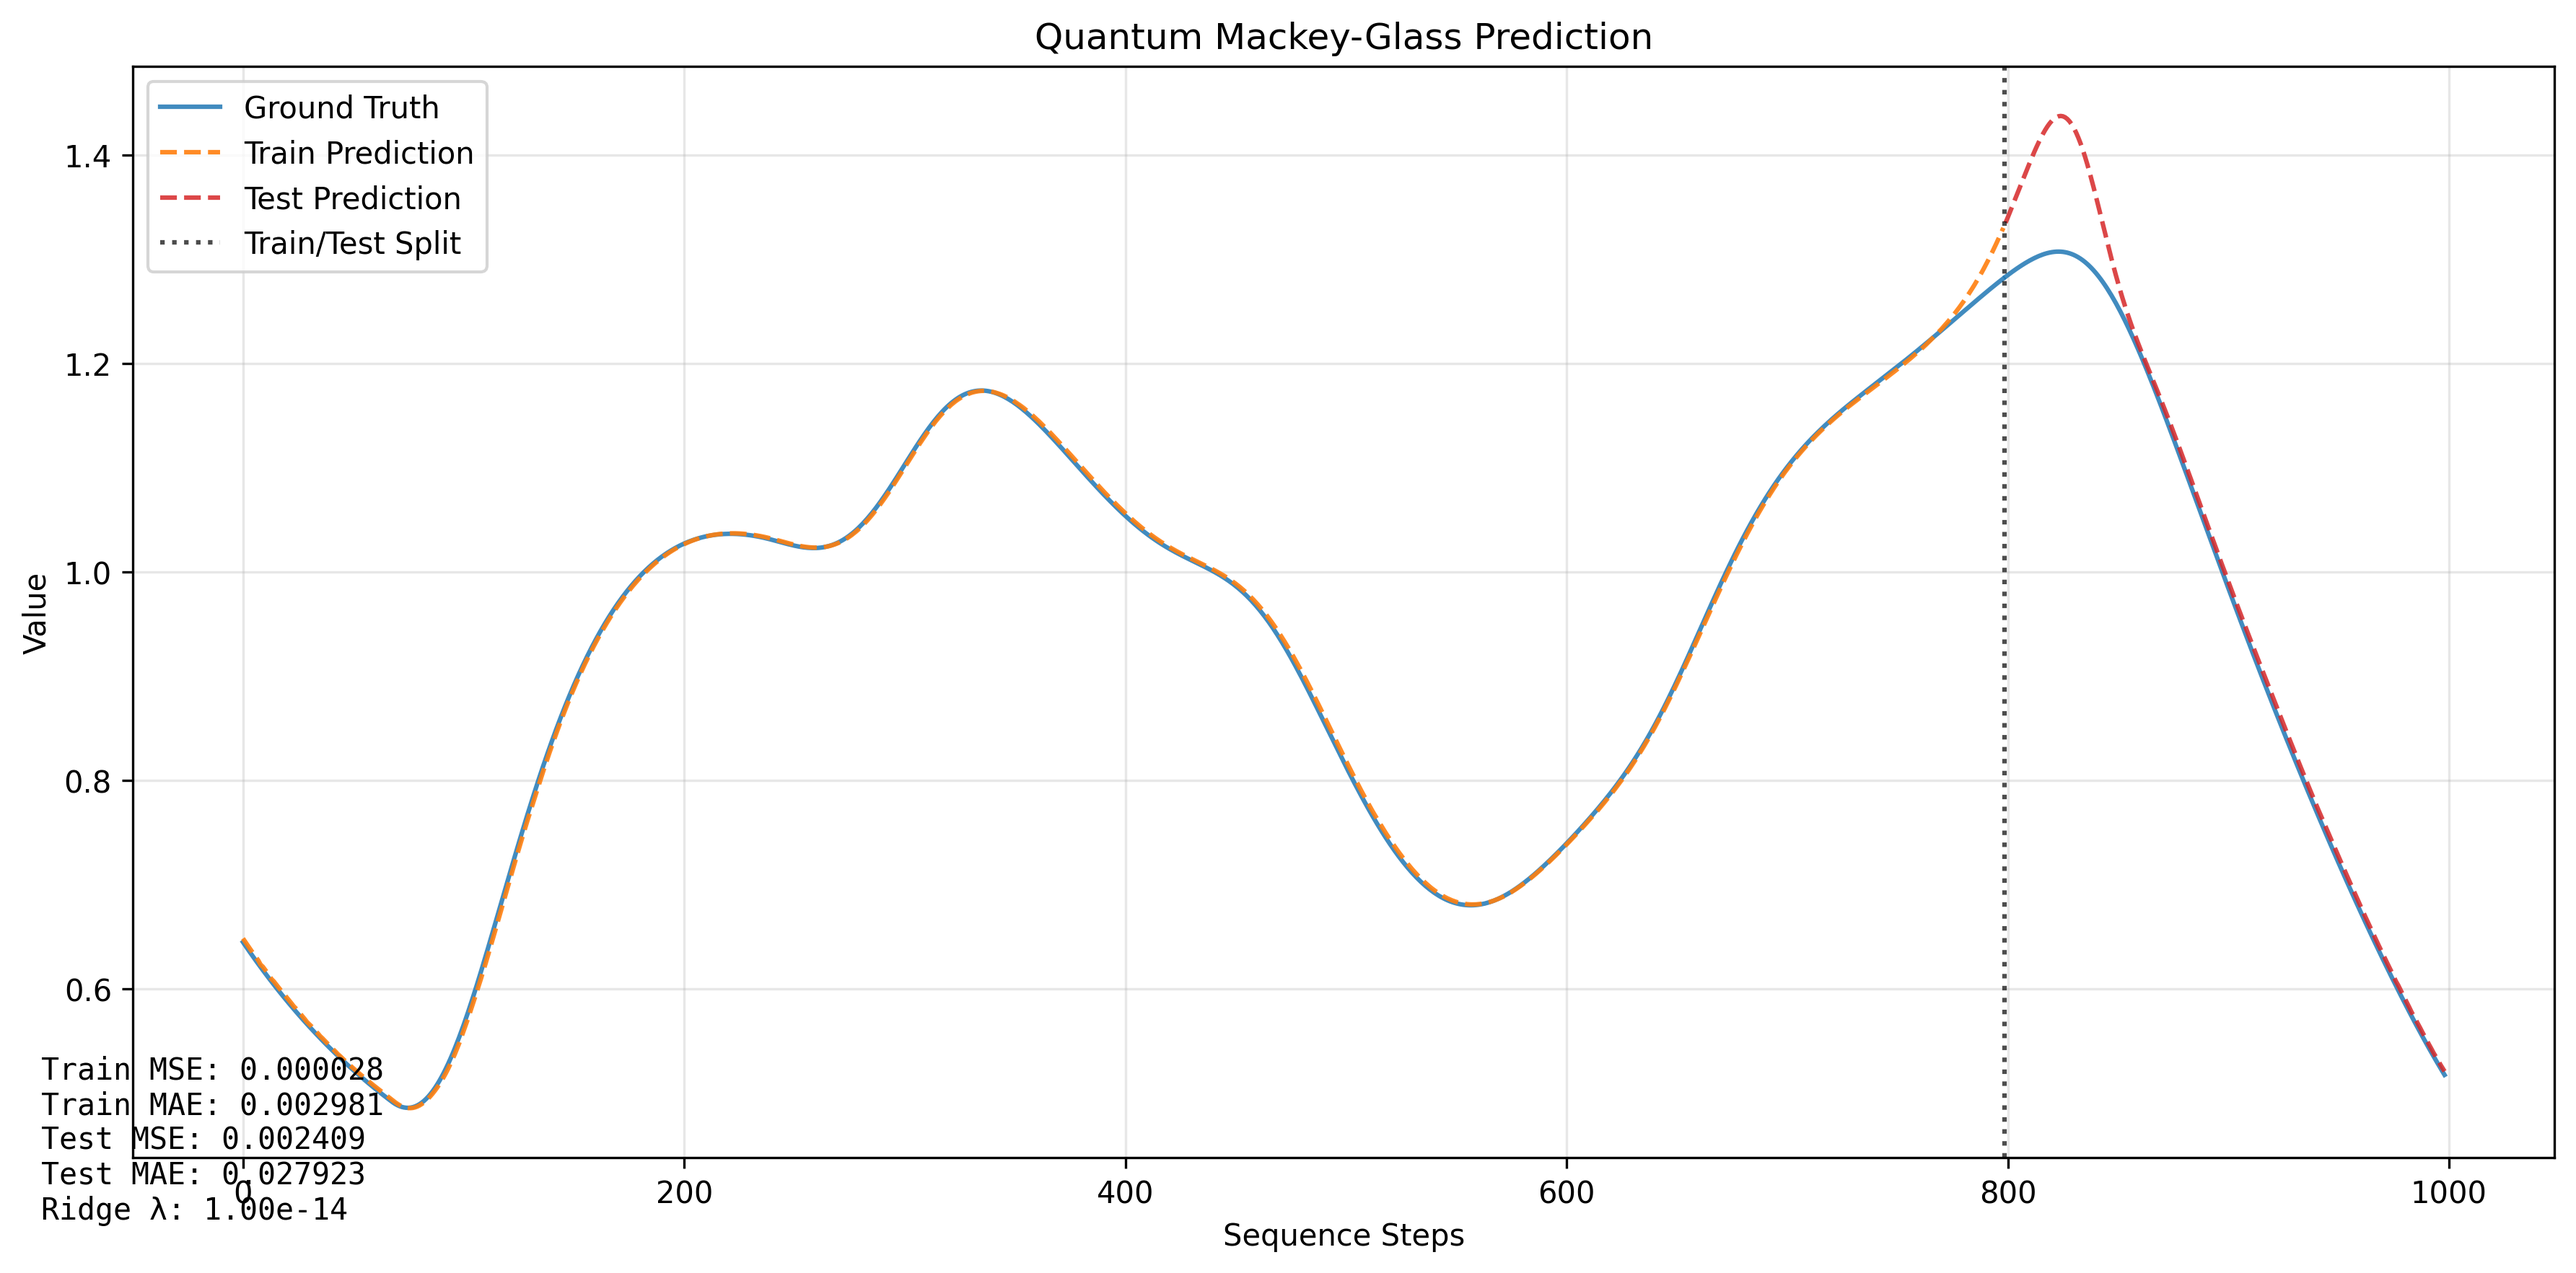
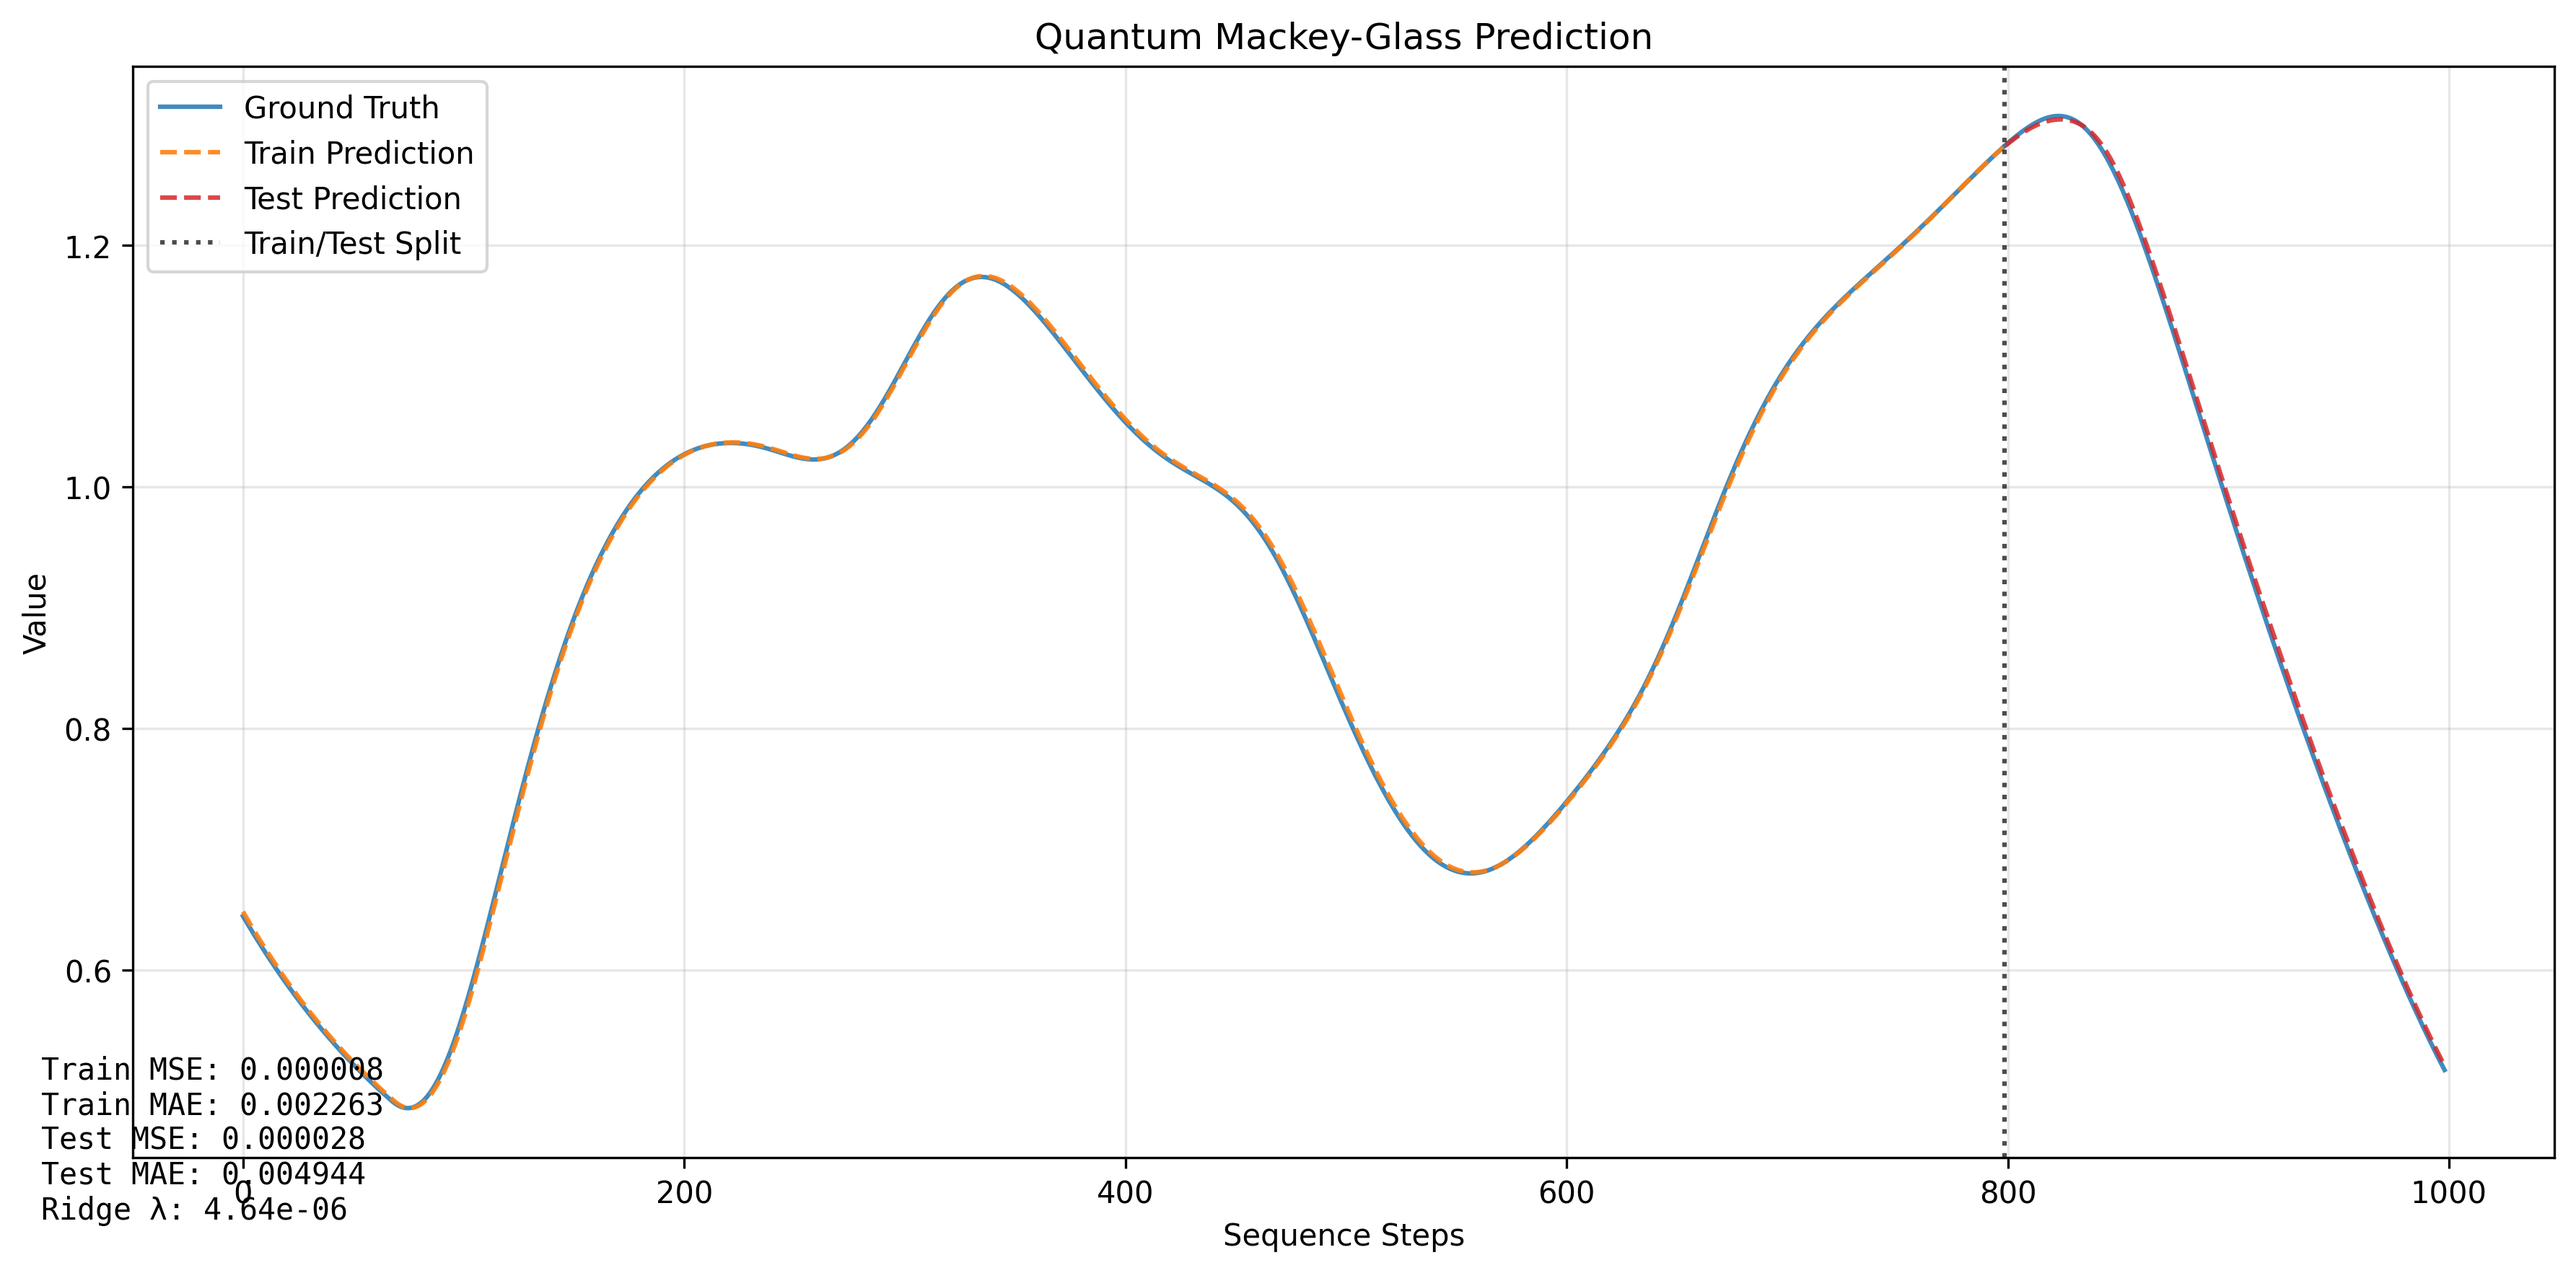
fixed aq

diff --git a/models/reservoir/analog_quantum.py b/models/reservoir/analog_quantum.py
@@ -606,7 +606,8 @@ class AnalogQuantumReservoir(BaseReservoirComputer):
                 self.ridge_search_log.append({"lambda": lam, "train_accuracy": train_accuracy, "val_accuracy": val_accuracy})
             else:
                 train_mse = float(np.mean((y_train - preds_tr) ** 2))
-                val_mse = float(np.mean((y_val if X_val.size > 0 else y_train - preds_val) ** 2))
+                y_ref = y_val if X_val.size > 0 else y_train
+                val_mse = float(np.mean((y_ref - preds_val) ** 2))
 
                 train_metric_list.append(train_mse)
                 val_metric_list.append(val_mse)
@@ -629,8 +630,7 @@ class AnalogQuantumReservoir(BaseReservoirComputer):
         best_weights = weights_by_lambda[best_lambda]
         self.best_ridge_lambda = best_lambda
 
-        return best_weights
-
+        return best_weights, best_lambda
     # ------------------------------------------------------------------ #
     # Training / prediction (regression)                                #
     # ------------------------------------------------------------------ #
@@ -654,9 +654,22 @@ class AnalogQuantumReservoir(BaseReservoirComputer):
         design_matrix = self._prepare_design_matrix(features, fit=True)
 
         lambdas = ridge_lambdas or self.ridge_lambdas
-        weights = self._select_ridge_lambda(design_matrix, targets, lambdas, classification=False)
 
-        self.W_out = weights
+        weights, best_lam = self._select_ridge_lambda(
+                design_matrix, targets, lambdas, classification=False
+        )
+
+        def _ridge_svd_full(X, Y, lam):
+            # 正: W = V^T * diag(s/(s^2+λ)) * U^T * Y
+            U, s, Vt = np.linalg.svd(X, full_matrices=False)
+            UTY = U.T @ Y  # (r, out)
+            coef = (s / (s * s + lam))[:, None]  # (r, 1)
+            scaled = coef * UTY  # (r, out)
+            return Vt.T @ scaled  # (D, out)
+        
+        
+        self.W_out = _ridge_svd_full(design_matrix, targets, best_lam)
+
         preds = design_matrix @ self.W_out
         self.last_training_mse = float(np.mean((preds - targets) ** 2))
         self.classification_mode = False
